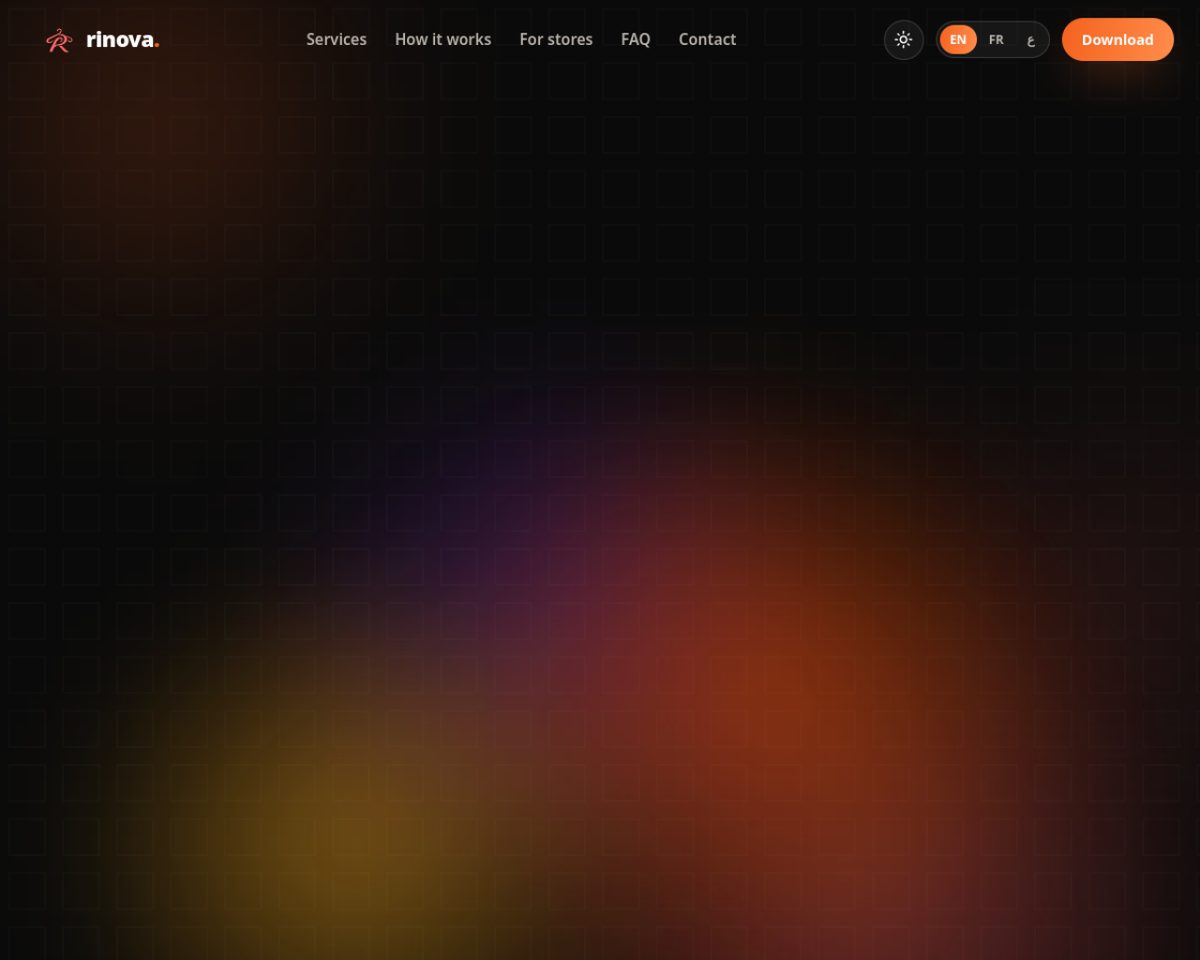
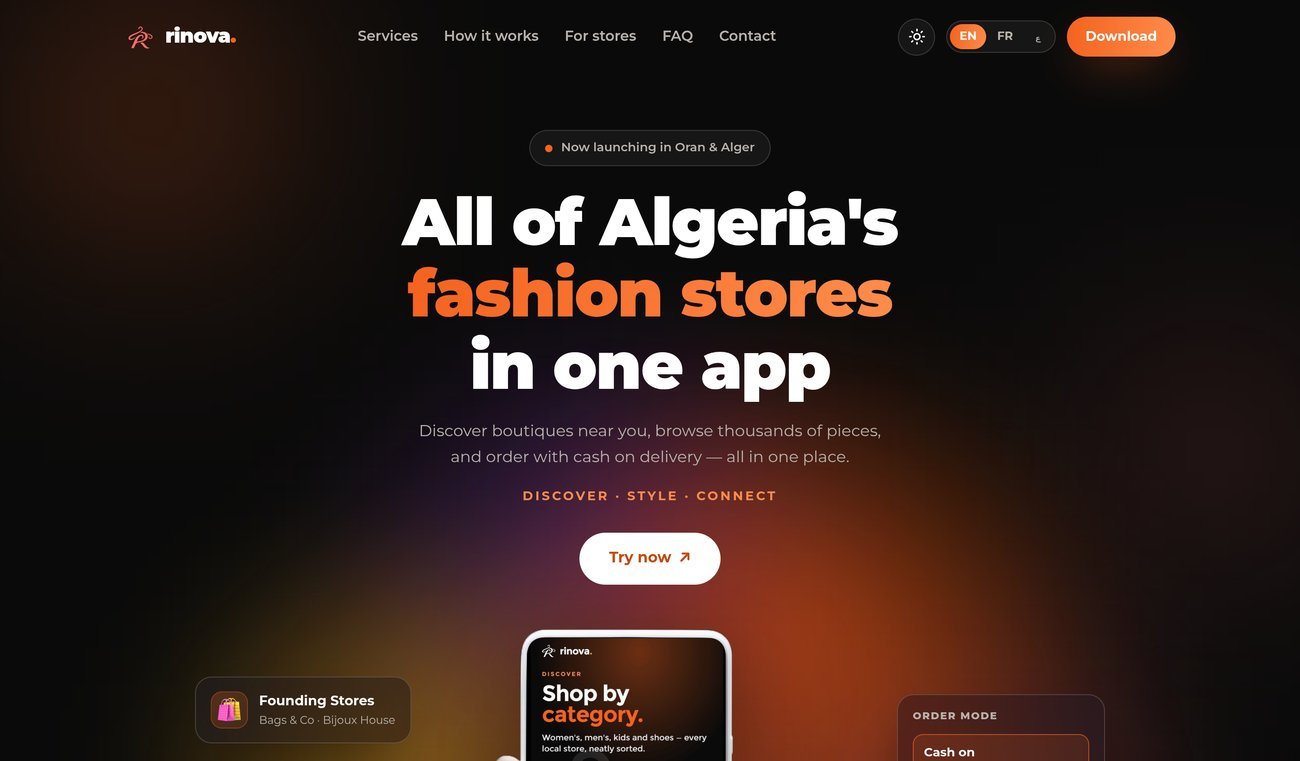
Portfolio: use full Rinova hero screenshot as the project image

diff --git a/index.html b/index.html
@@ -15,7 +15,7 @@
   <link rel="preconnect" href="https://fonts.googleapis.com" />
   <link rel="preconnect" href="https://fonts.gstatic.com" crossorigin />
   <link href="https://fonts.googleapis.com/css2?family=Plus+Jakarta+Sans:wght@400;500;600;700;800&family=Inter:wght@300;400;500;600&family=Tajawal:wght@400;500;700;800&display=swap" rel="stylesheet" />
-  <link rel="stylesheet" href="styles.css?v=15" />
+  <link rel="stylesheet" href="styles.css?v=16" />
   <!-- EmailJS SDK (optional — see CONFIG in script.js). Falls back to mailto if not configured. -->
   <script src="https://cdn.jsdelivr.net/npm/@emailjs/browser@4/dist/email.min.js"></script>
 </head>
@@ -190,7 +190,7 @@
         </article>
         <a class="card reveal card--link" data-cat="dev" href="https://rinova-landing.vercel.app/" target="_blank" rel="noopener">
           <div class="card__art">
-            <img src="assets/img/rinova.jpg" alt="Rinova product landing page" loading="lazy" />
+            <img src="assets/img/rinova.jpg?v=2" alt="Rinova product landing page" loading="lazy" />
             <span class="card__cat">Web Dev</span>
           </div>
           <div class="card__body">
@@ -624,7 +624,7 @@
   <div class="toast" id="toast" hidden></div>
 
   <script src="https://cdn.jsdelivr.net/npm/@supabase/supabase-js@2"></script>
-  <script src="i18n.js?v=15"></script>
-  <script src="script.js?v=15"></script>
+  <script src="i18n.js?v=16"></script>
+  <script src="script.js?v=16"></script>
 </body>
 </html>

diff --git a/script.js b/script.js
@@ -297,7 +297,7 @@ requestAnimationFrame(() => requestAnimationFrame(() => document.body.classList.
     { src: 'assets/img/portfolio-04.png', name: 'SmartScan Portal' },
     { src: 'assets/img/project-2.jpg', name: 'Nutrion Art' },
     { src: 'assets/img/portfolio-05.jpg', name: 'DSG — Brand Identity' },
-    { src: 'assets/img/rinova.jpg', name: 'Rinova — Landing', href: 'https://rinova-landing.vercel.app/' },
+    { src: 'assets/img/rinova.jpg?v=2', name: 'Rinova — Landing', href: 'https://rinova-landing.vercel.app/' },
     { src: 'assets/img/portfolio-06.jpg', name: 'Logo Collection' },
   ];
   const reduce = window.matchMedia('(prefers-reduced-motion: reduce)').matches;